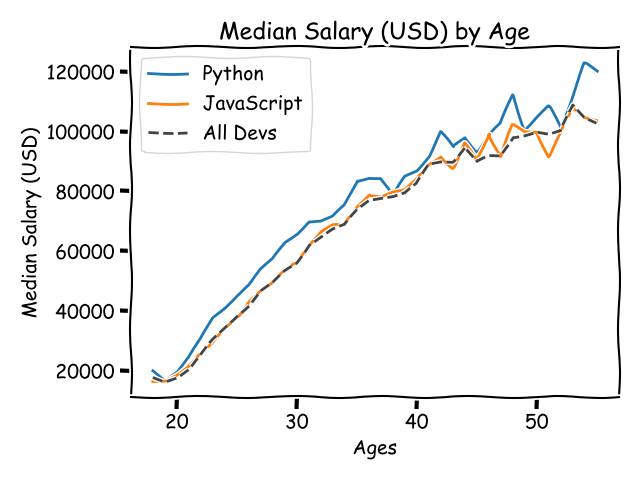
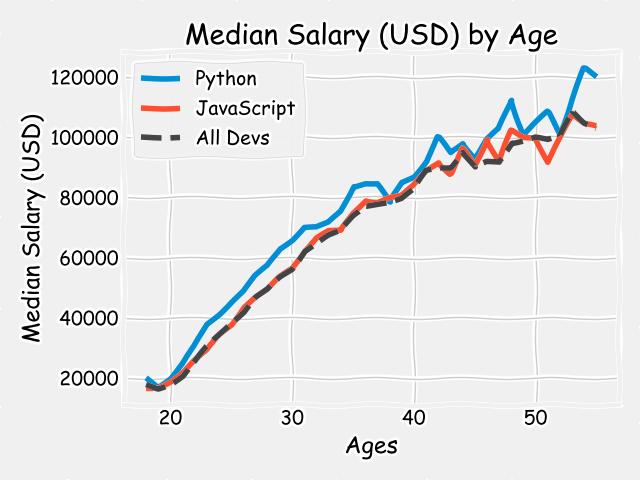
bar method

diff --git a/Matplotlib2.py b/Matplotlib2.py
@@ -1,0 +1,27 @@
+from matplotlib import pyplot as plt
+
+plt.style.use("fivethirtyeight")
+
+ages_x = [25, 26, 27, 28, 29, 30, 31, 32, 33, 34, 35]
+
+dev_y = [38496, 42000, 46752, 49320, 53200,
+         56000, 62316, 64928, 67317, 68748, 73752]
+plt.bar(ages_x, dev_y, color="#444444", label="All Devs")
+
+py_dev_y = [45372, 48876, 53850, 57287, 63016,
+            65998, 70003, 70000, 71496, 75370, 83640]
+plt.bar(ages_x, py_dev_y, color="#008fd5", label="Python")
+
+js_dev_y = [37810, 43515, 46823, 49293, 53437,
+            56373, 62375, 66674, 68745, 68746, 74583]
+plt.bar(ages_x, js_dev_y, color="#e5ae38", label="JavaScript")
+
+plt.legend()
+
+plt.title("Median Salary (USD) by Age")
+plt.xlabel("Ages")
+plt.ylabel("Median Salary (USD)")
+
+plt.tight_layout()
+
+plt.show()

diff --git a/Matplotlib.py b/Matplotlib.py
@@ -1,7 +1,8 @@
 
 from matplotlib import pyplot as plt
 
-plt.xkcd()
+# plt.xkcd()
+plt.style.use('fivethirtyeight')
 
 ages_x = [18, 19, 20, 21, 22, 23, 24, 25, 26, 27, 28, 29, 30, 31, 32, 33, 34, 35,
           36, 37, 38, 39, 40, 41, 42, 43, 44, 45, 46, 47, 48, 49, 50, 51, 52, 53, 54, 55]
@@ -25,7 +26,9 @@ plt.title('Median Salary (USD) by Age')
 plt.legend()
 
 plt.tight_layout()
-
+plt.grid(True)
 plt.savefig('plot.png')
 
 plt.show()
+
+# print(plt.style.available)
